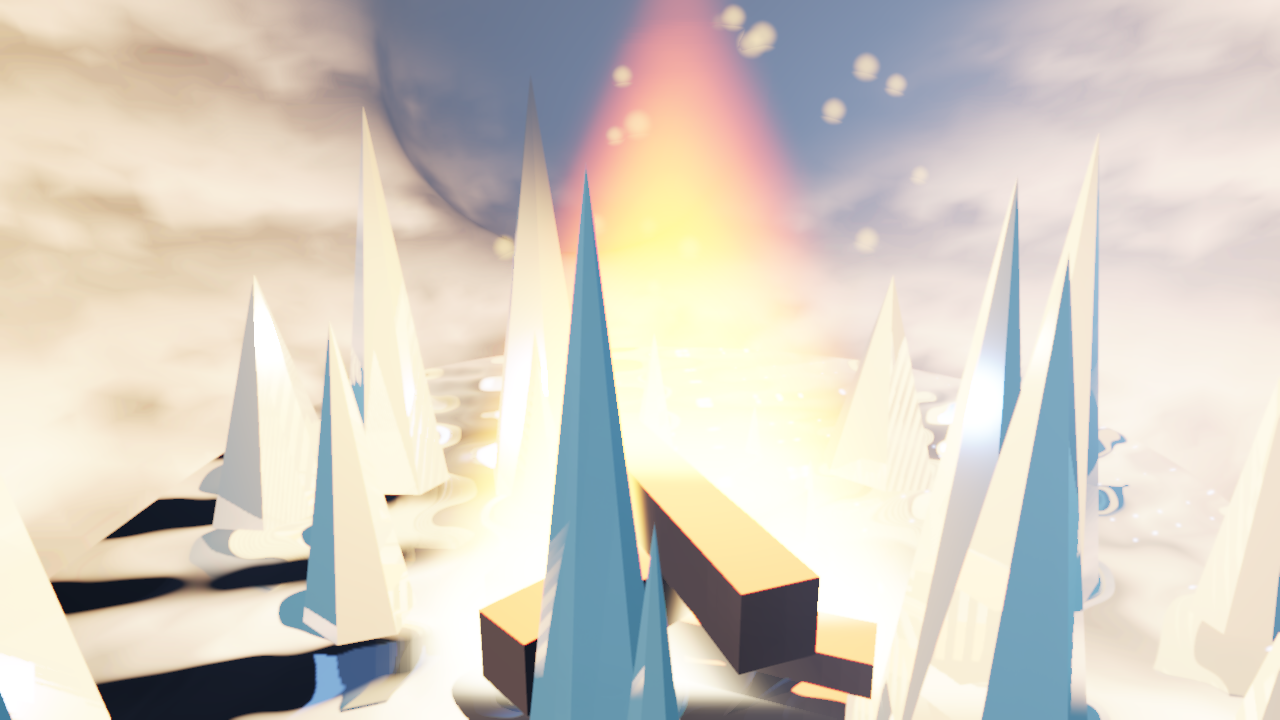
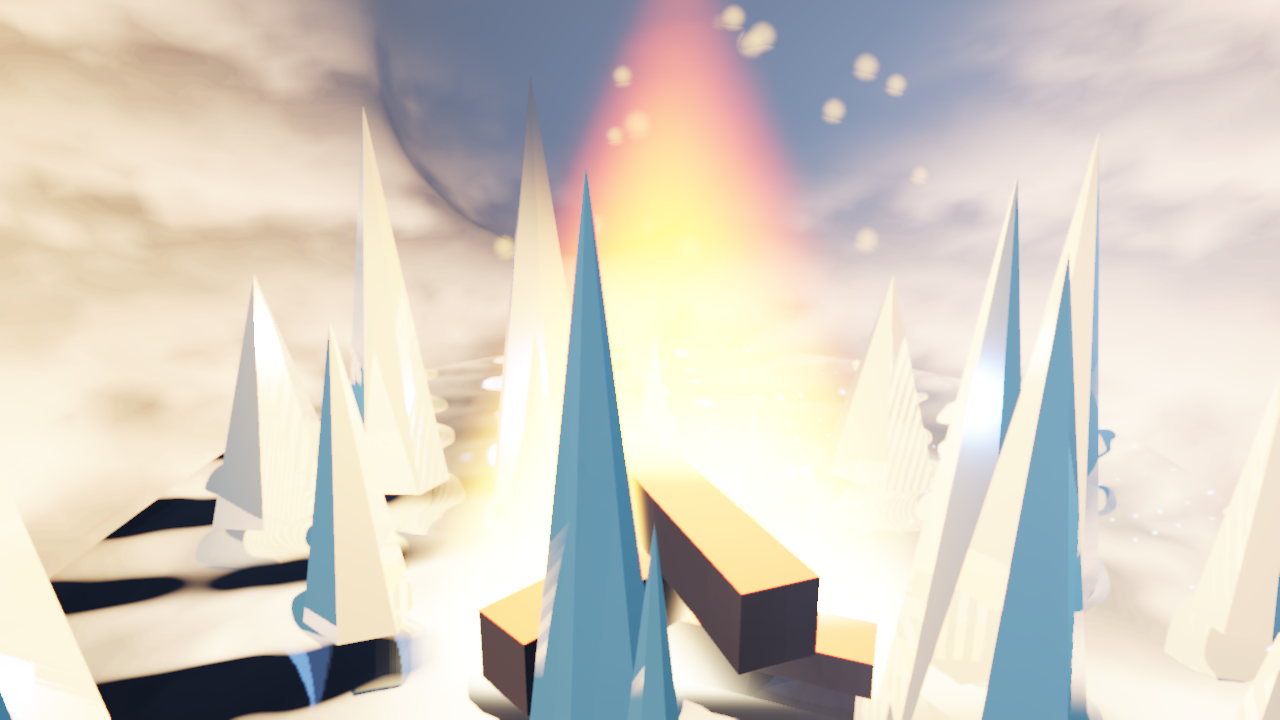
G13 water tuning: refresh water-affected CI screenshot refs + compress all images
- re-rendered with the new water defaults: cave_wide/crystals/entrance,
  g24_noise_wide/ridge (CI screenshot-diff pairs), sunrise_wide/dock, g13_water_*
- losslessly re-compressed all docs/images/*.png via docs/compress_png.py
  (44.4 MB -> 22.5 MB; fresh renders ~3.7 MB -> 0.3-0.9 MB each)
- local screenshot_diff check: 7/7 water-related pairs at PSNR 99 dB

diff --git a/CHANGELOG.md b/CHANGELOG.md
@@ -350,8 +350,10 @@ All notable changes to FuhGlGraphics are documented here. The format follows
   0.02 → 0.035) and lower distortion (`distortion` 0.12 → 0.02, `refractionDistortion`
   0.06 → 0.035). Much less foam: `foamCrestStart` 0.72 → 0.95, `foamCrestSoftness`
   0.18 → 0.04, `shoreFoamWidth` 1.2 → 0.3, `foamStrength` 1.0 → 0.3. Reference images
-  `docs/images/g13_water_*.png` re-rendered and all `docs/images/*.png` losslessly
-  re-compressed with `docs/compress_png.py`.
+  re-rendered with the new defaults (`g13_water_*`, plus the other water scenes the CI
+  screenshot diff compares: `cave_*`, `g24_noise_*`, `sunrise_*`) and all
+  `docs/images/*.png` losslessly re-compressed with `docs/compress_png.py`
+  (44 MB → 22 MB).
 
 ### Planned
 
